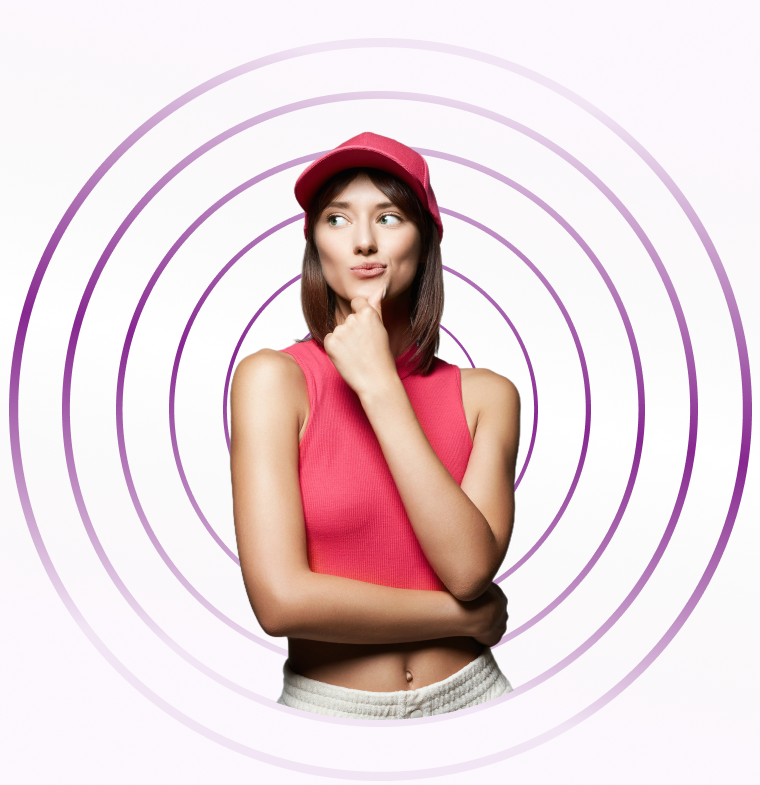
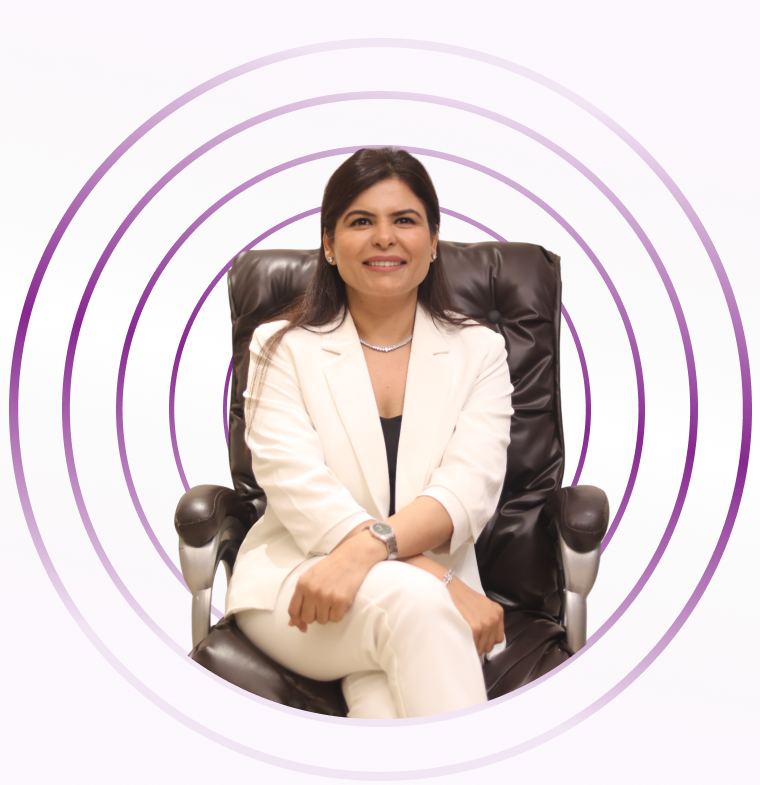
change the image for why choose us

Changed region(s): [[0.2118, 0.1529, 0.8171, 0.9172]]

diff --git a/src/components/team.jsx b/src/components/team.jsx
@@ -17,16 +17,7 @@ import { Link } from "react-router-dom"
 
 
 const Team = ()=>{
-    const data = [{
-            name: "Shifali ",
-            hint: "Director, Figure N Belle",
-            description: "A Trusted Wellness & Beauty Mentor for Women Across Delhi With over 20+ years of hands-on experience in client wellness, skincare, and lifestyle transformation, Shifali has become a pillar of trust and care for hundreds of women seeking real, visible results. Her early career in nutrition laid the foundation for her deep understanding of the connection between inner health and outer beauty.",
-            desc_2: "Today, she leads operations and client consultation at Figure N Belle, ensuring every person who walks into the clinic feels seen, heard, and beautifully transformed. From skin rejuvenation and anti-aging to hair fall treatments, fat freezing, and laser solutions, Shifali blends science with sincerity in every service she supervises.", 
-            desc_3: "Her approach is holistic, warm, and results-driven, which is why many of Figure N Belle’s clients have stayed loyal for years.",
-            desc_4: "“Beauty should never feel intimidating. It should feel empowering, achievable, and most importantly real.”  Shifali",
-            certification: [],
-            img: img_1
-        },
+    const data = [
         {
             name: "Shweta",
             hint: "Director, Figure N Belle",
@@ -36,6 +27,15 @@ const Team = ()=>{
             desc_4: "“Every face, every body, every client is unique. Our job is to listen, treat, and transform, with heart and science.” Shweta",
             certification: [],
             img: img_2
+        },{
+            name: "Shifali ",
+            hint: "Director, Figure N Belle",
+            description: "A Trusted Wellness & Beauty Mentor for Women Across Delhi With over 20+ years of hands-on experience in client wellness, skincare, and lifestyle transformation, Shifali has become a pillar of trust and care for hundreds of women seeking real, visible results. Her early career in nutrition laid the foundation for her deep understanding of the connection between inner health and outer beauty.",
+            desc_2: "Today, she leads operations and client consultation at Figure N Belle, ensuring every person who walks into the clinic feels seen, heard, and beautifully transformed. From skin rejuvenation and anti-aging to hair fall treatments, fat freezing, and laser solutions, Shifali blends science with sincerity in every service she supervises.", 
+            desc_3: "Her approach is holistic, warm, and results-driven, which is why many of Figure N Belle’s clients have stayed loyal for years.",
+            desc_4: "“Beauty should never feel intimidating. It should feel empowering, achievable, and most importantly real.”  Shifali",
+            certification: [],
+            img: img_1
         },
     ]
     const [ currentData, setCurrentData ] = useState({})
@@ -79,7 +79,7 @@ const Team = ()=>{
                 >     
                 {
                     data.map((e,idx)=>(<SwiperSlide className="" key={`Meet_Our_Team_${e.name}_${idx}`}>
-                        <div className="grid grid-cols-1 lg:grid-cols-2 gap-3 md:gap-5 container-team p-4 xl:min-h-[420px]">
+                        <div className="grid grid-cols-1 lg:grid-cols-2 gap-3 md:gap-5 container-team p-4  xl:min-h-[450px]">
                             <div className="team-container-img h-[300px] md:h-[250px] lg:h-[100%]  ">
                                 <img style={{objectFit:"cover"}} src={e.img} alt={`Team_${idx}`} />
                                 
